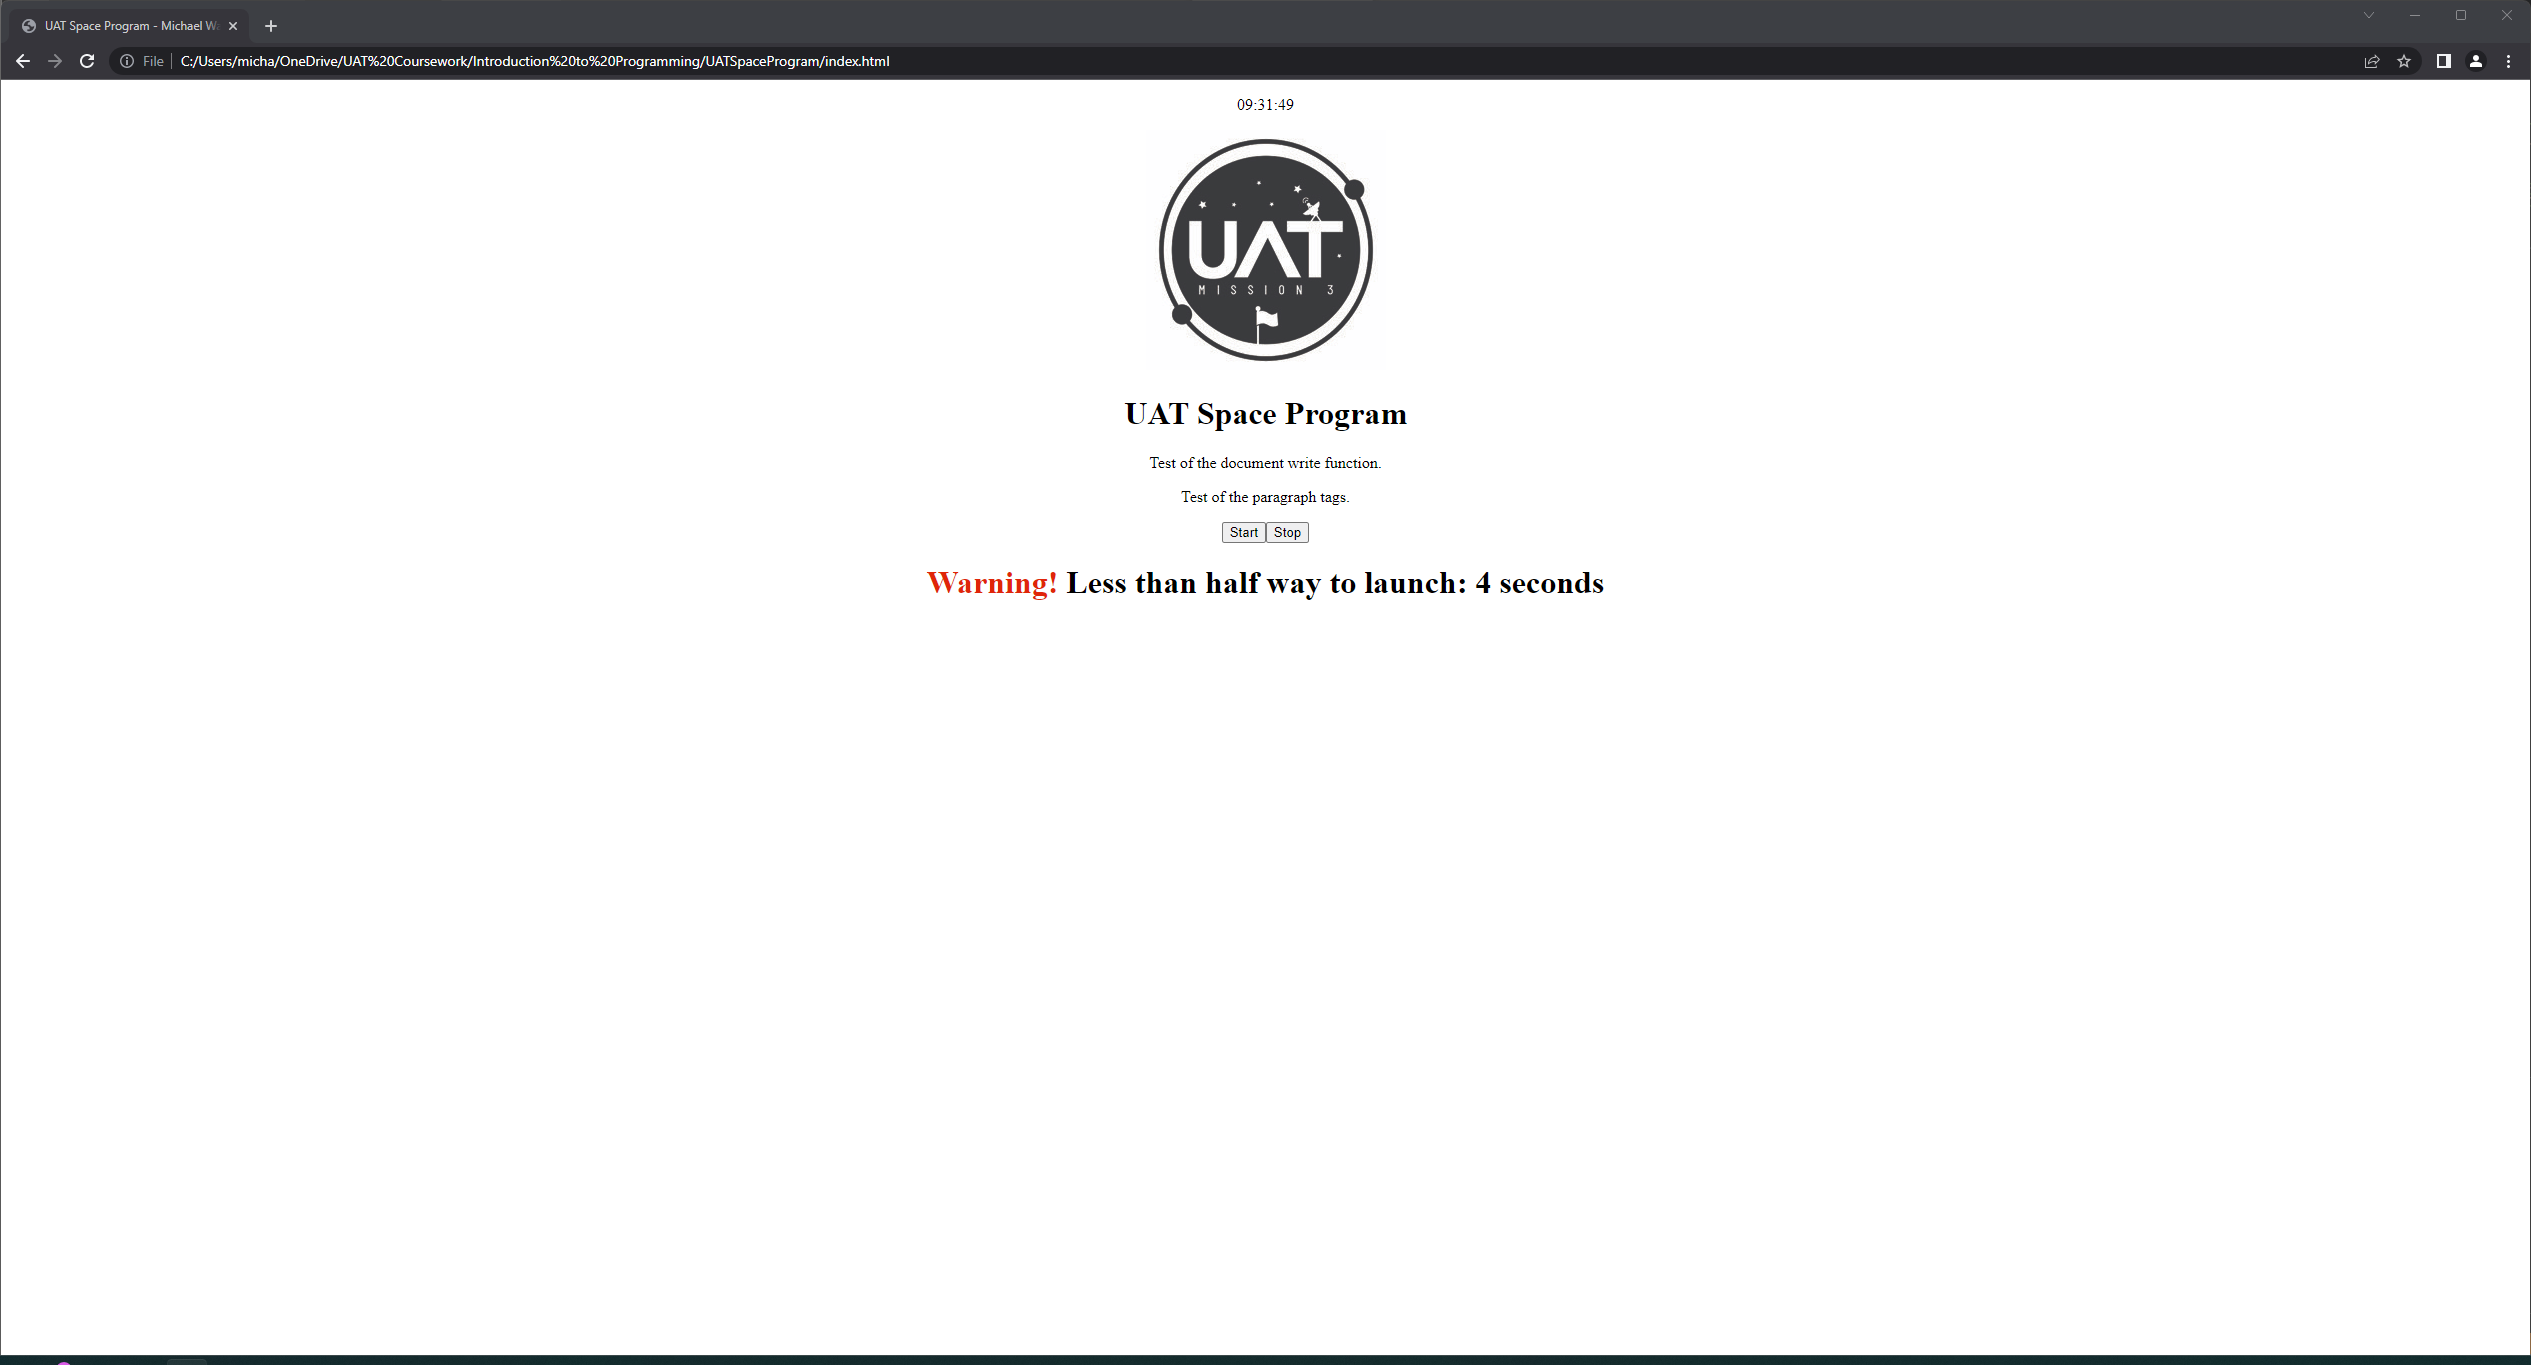
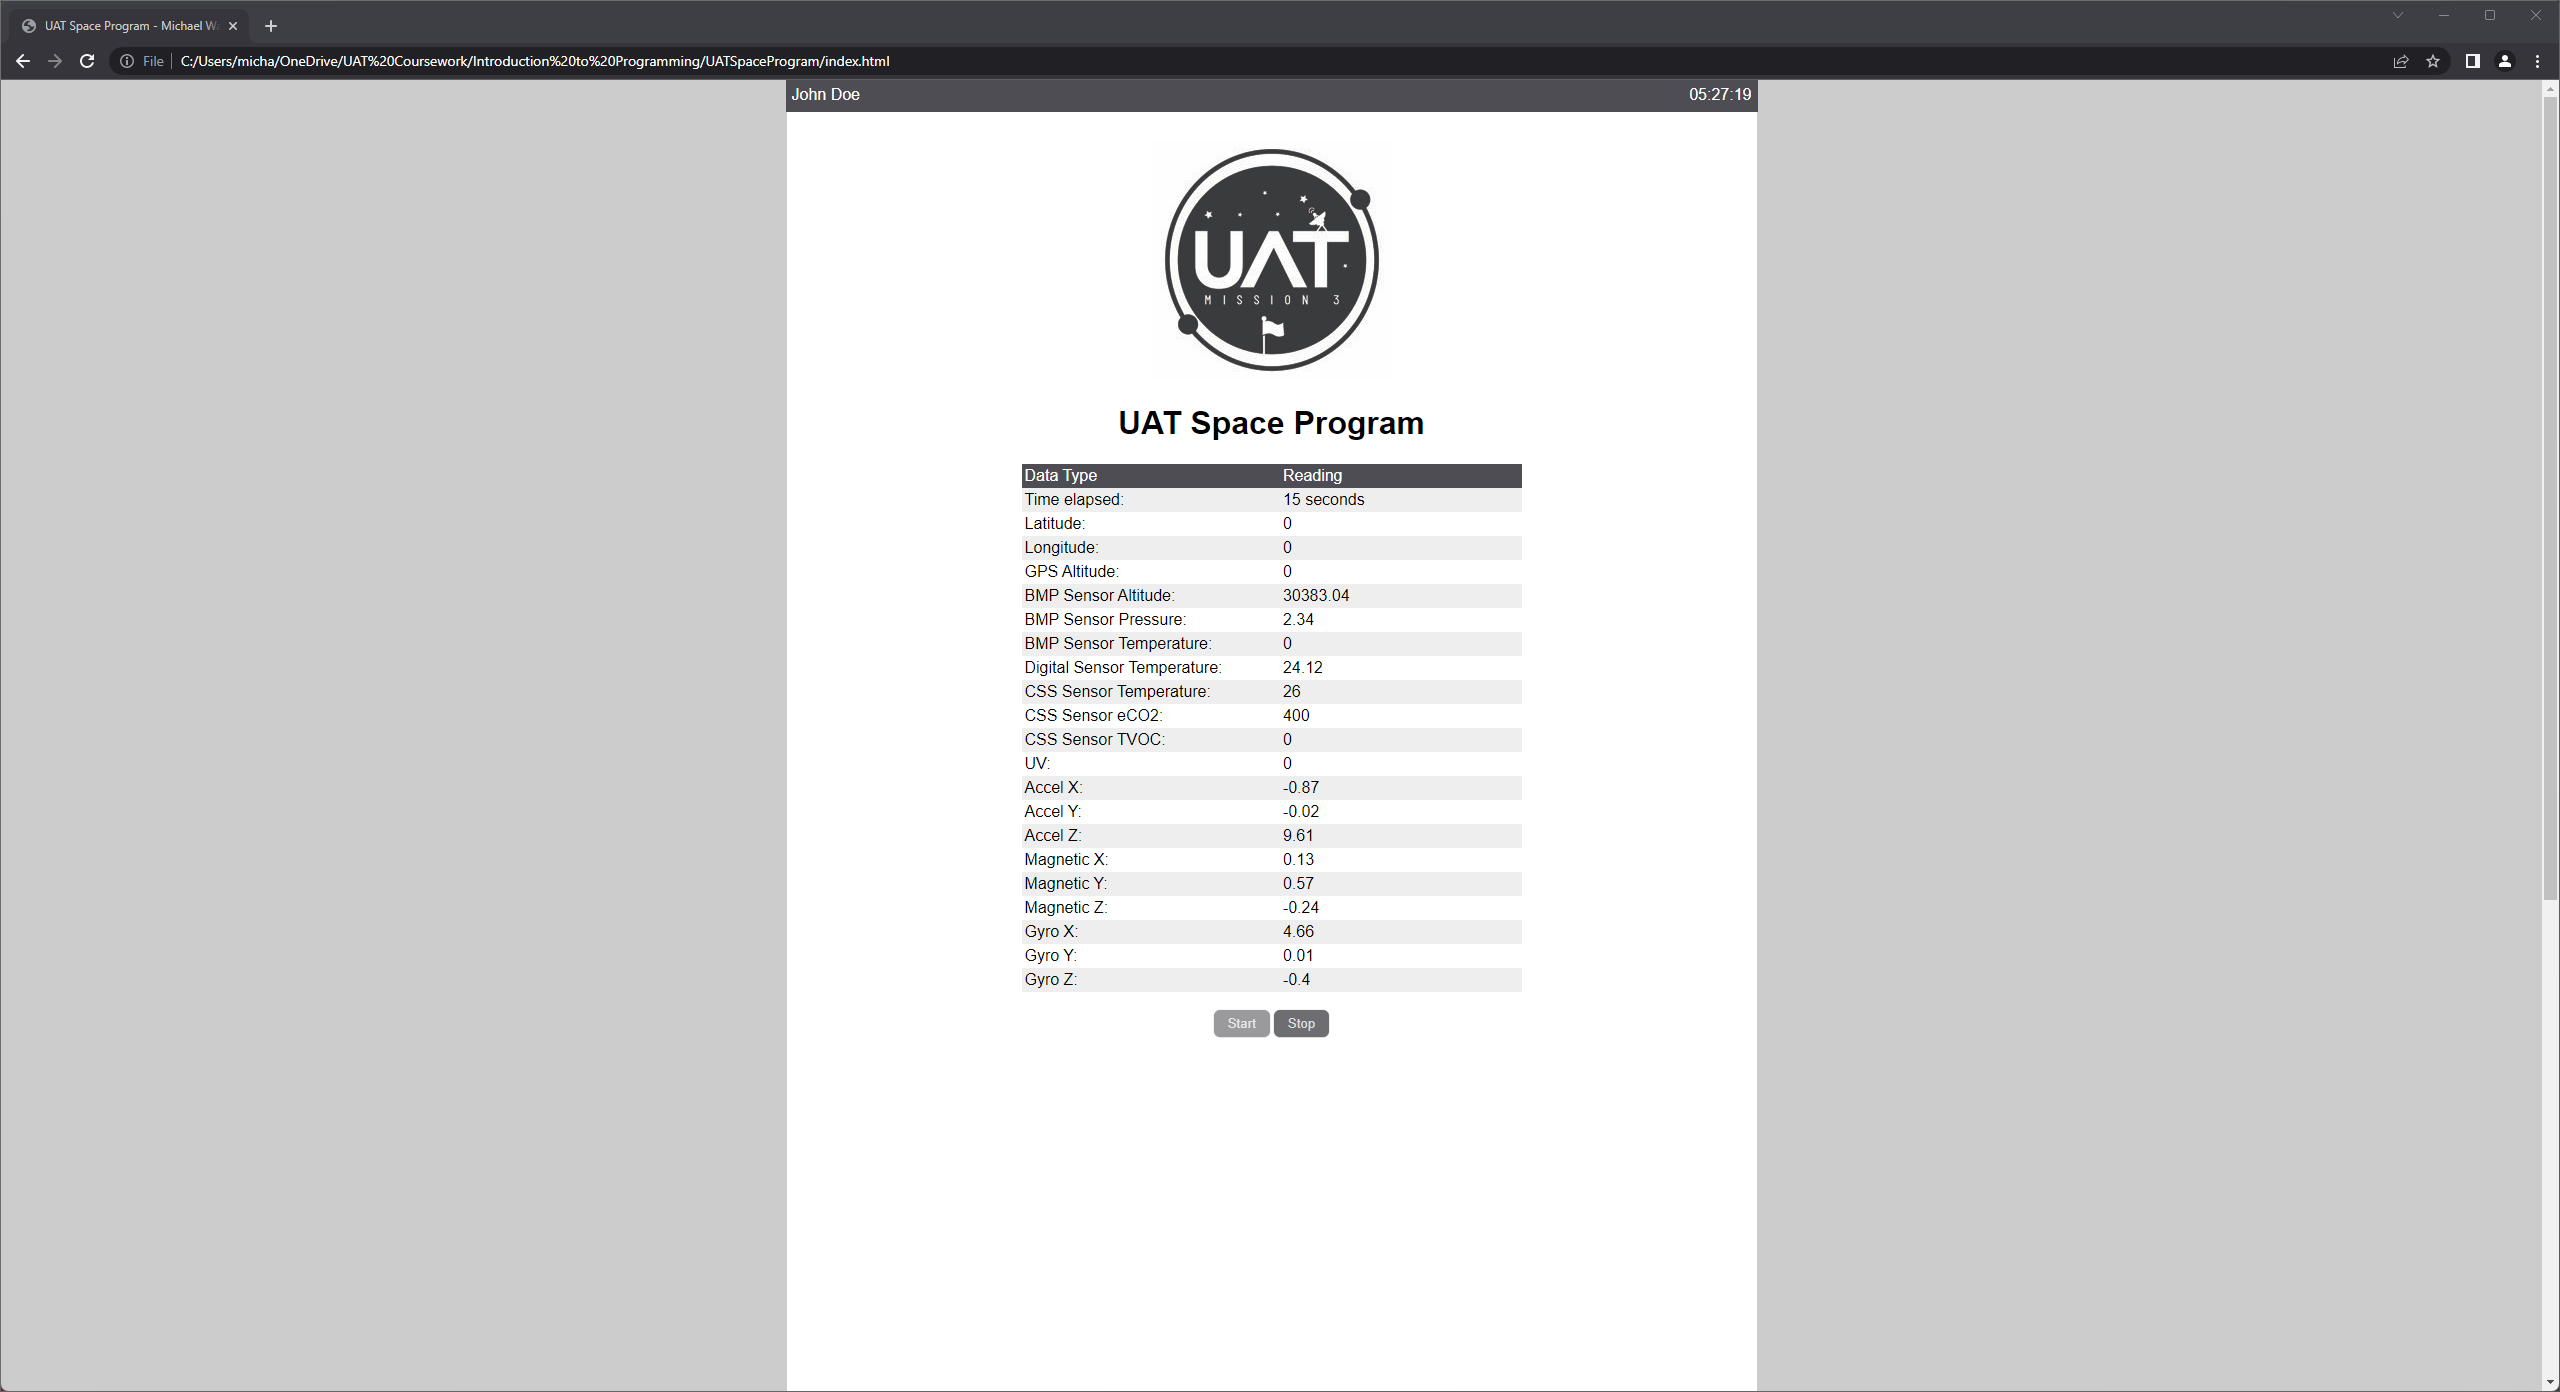
Assignment: Event Driven Programming

diff --git a/index.html b/index.html
@@ -2,7 +2,7 @@
 
 <!-- 
     Michael Walker
-    Assignment: Change Order Request from the Fleet Admiral
+    Assignment: Event Driven Programming
 -->
 
 <HTML>
@@ -30,17 +30,99 @@
             <!-- h1 tag for title of program -->
             <h1>UAT Space Program</h1>
 
-            <!-- Script handles both the initial alert and the document.write function portion of the assignment -->
-            <script>
-                alert("Prepare for launch!");
-                document.write("<p>Test of the document write function.</p>");
-            </script>
-
-            <!-- Paragraph (p) tag -->
-            <p>Test of the paragraph tags.</p>
+            <table>
+                <tr id="headline">
+                    <td id="tableHeadline">Data Type</td>
+                    <td id="tableHeadline">Reading</td>
+                </tr>
+                <tr id="rowHighlight">
+                    <td>Time elapsed:</td>
+                    <td id="data">15 seconds</td>
+                </tr>
+                <tr>
+                    <td>Latitude:</td>
+                    <td id="data">0</td>
+                </tr>
+                <tr id="rowHighlight">
+                    <td>Longitude:</td>
+                    <td id="data">0</td>
+                </tr>
+                <tr>
+                    <td>GPS Altitude:</td>
+                    <td id="data">0</td>
+                </tr>
+                <tr id="rowHighlight">
+                    <td>BMP Sensor Altitude:</td>
+                    <td id="data">30383.04</td>
+                </tr>
+                <tr>
+                    <td>BMP Sensor Pressure:</td>
+                    <td id="data">2.34</td>
+                </tr>
+                <tr id="rowHighlight">
+                    <td>BMP Sensor Temperature:</td>
+                    <td id="data">0</td>
+                </tr>
+                <tr>
+                    <td>Digital Sensor Temperature:</td>
+                    <td id="data">24.12</td>
+                </tr>
+                <tr id="rowHighlight">
+                    <td>CSS Sensor Temperature:</td>
+                    <td id="data">26</td>
+                </tr>
+                <tr>
+                    <td>CSS Sensor eCO2:</td>
+                    <td id="data">400</td>
+                </tr>
+                <tr id="rowHighlight">
+                    <td>CSS Sensor TVOC:</td>
+                    <td id="data">0</td>
+                </tr>
+                <tr>
+                    <td>UV:</td>
+                    <td id="data">0</td>
+                </tr>
+                <tr id="rowHighlight">
+                    <td>Accel X:</td>
+                    <td id="data">-0.87</td>
+                </tr>
+                <tr>
+                    <td>Accel Y:</td>
+                    <td id="data">-0.02</td>
+                </tr>
+                <tr id="rowHighlight">
+                    <td>Accel Z:</td>
+                    <td id="data">9.61</td>
+                </tr>
+                <tr>
+                    <td>Magnetic X:</td>
+                    <td id="data">0.13</td>
+                </tr>
+                <tr id="rowHighlight">
+                    <td>Magnetic Y:</td>
+                    <td id="data">0.57</td>
+                </tr>
+                <tr>
+                    <td>Magnetic Z:</td>
+                    <td id="data">-0.24</td>
+                </tr>
+                <tr id="rowHighlight">
+                    <td>Gyro X:</td>
+                    <td id="data">4.66</td>
+                </tr>
+                <tr>
+                    <td>Gyro Y:</td>
+                    <td id="data">0.01</td>
+                </tr>
+                <tr id="rowHighlight">
+                    <td>Gyro Z:</td>
+                    <td id="data">-0.4</td>
+                </tr>
+            </table>
 
             <!-- Placeholder buttons -->
-            <button type="button" id="startCountdown" class="button-12">Start</button><button type="button" id="stopCountdown" class="button-12">Stop</button>
+            <p><button type="button" id="start" class="button-12">Start</button><button type="button" id="stop" class="button-12">Stop</button></p>
 
             <h1 id="DisplayCountdown"></h1>
             <!-- Link the external JavaScript file code.js -->

diff --git a/code.js b/code.js
@@ -99,6 +99,7 @@ document.getElementById("name").innerHTML = employeeName;
 // Script for countdown functions
 //-------------------------------
 
+/*
 // Variable to store interval ID
 let intervalID;
 let countdown = 10;
@@ -144,6 +145,31 @@ function stopCountdown()
     document.getElementById("DisplayCountdown").innerHTML = "Countdown halted!";
     countdown = 10;
 }
+*/
+
+function startButton()
+{
+    // Disables and lowers the opacity of the start button
+    document.getElementById("start").disabled = true;
+    document.getElementById("start").style.opacity = "0.7";
+
+    // Enables and raises the opacity of the stop button
+    document.getElementById("stop").disabled = false;
+    document.getElementById("stop").style.opacity = "1";
+
+}
+
+function stopButton()
+{
+    // Enables and raises the opacity of the start button
+    document.getElementById("start").disabled = false;
+    document.getElementById("start").style.opacity = "1";
+
+    // Disables and lowers the opacity of the stop button
+    document.getElementById("stop").disabled = true;
+    document.getElementById("stop").style.opacity = "0.7";
+}
+
 // Add event listeners for the start and stop buttons
-document.getElementById("startCountdown").addEventListener("click", beginCountdown);
-document.getElementById("stopCountdown").addEventListener("click", stopCountdown);
+document.getElementById("start").addEventListener("click", startButton);
+document.getElementById("stop").addEventListener("click", stopButton);

diff --git a/style.css b/style.css
@@ -1,6 +1,7 @@
 body {
     margin: 0px;
     background: #CCCCCC;
+    font-family: sans-serif;
 }
             
 .header-cont {
@@ -64,4 +65,22 @@ body {
 .button-12:focus {
     box-shadow: inset 0px 0.8px 0px -0.25px rgba(255, 255, 255, 0.2), 0px 0.5px 1px rgba(0, 0, 0, 0.1), 0px 0px 0px 3.5px rgba(58, 108, 217, 0.5);
     outline: 0;
+}
+
+table, th, td {
+    border: 0px solid;
+    border-collapse: collapse;
+    margin: 0px auto;
+    padding: 3px;
+    text-align: left;
+    width: 500px;
+}
+
+#headline {
+    color: #FFFFFF;
+    background: #4C4E52;
+}
+
+#rowHighlight {
+    background: #EEEEEE;
 }
